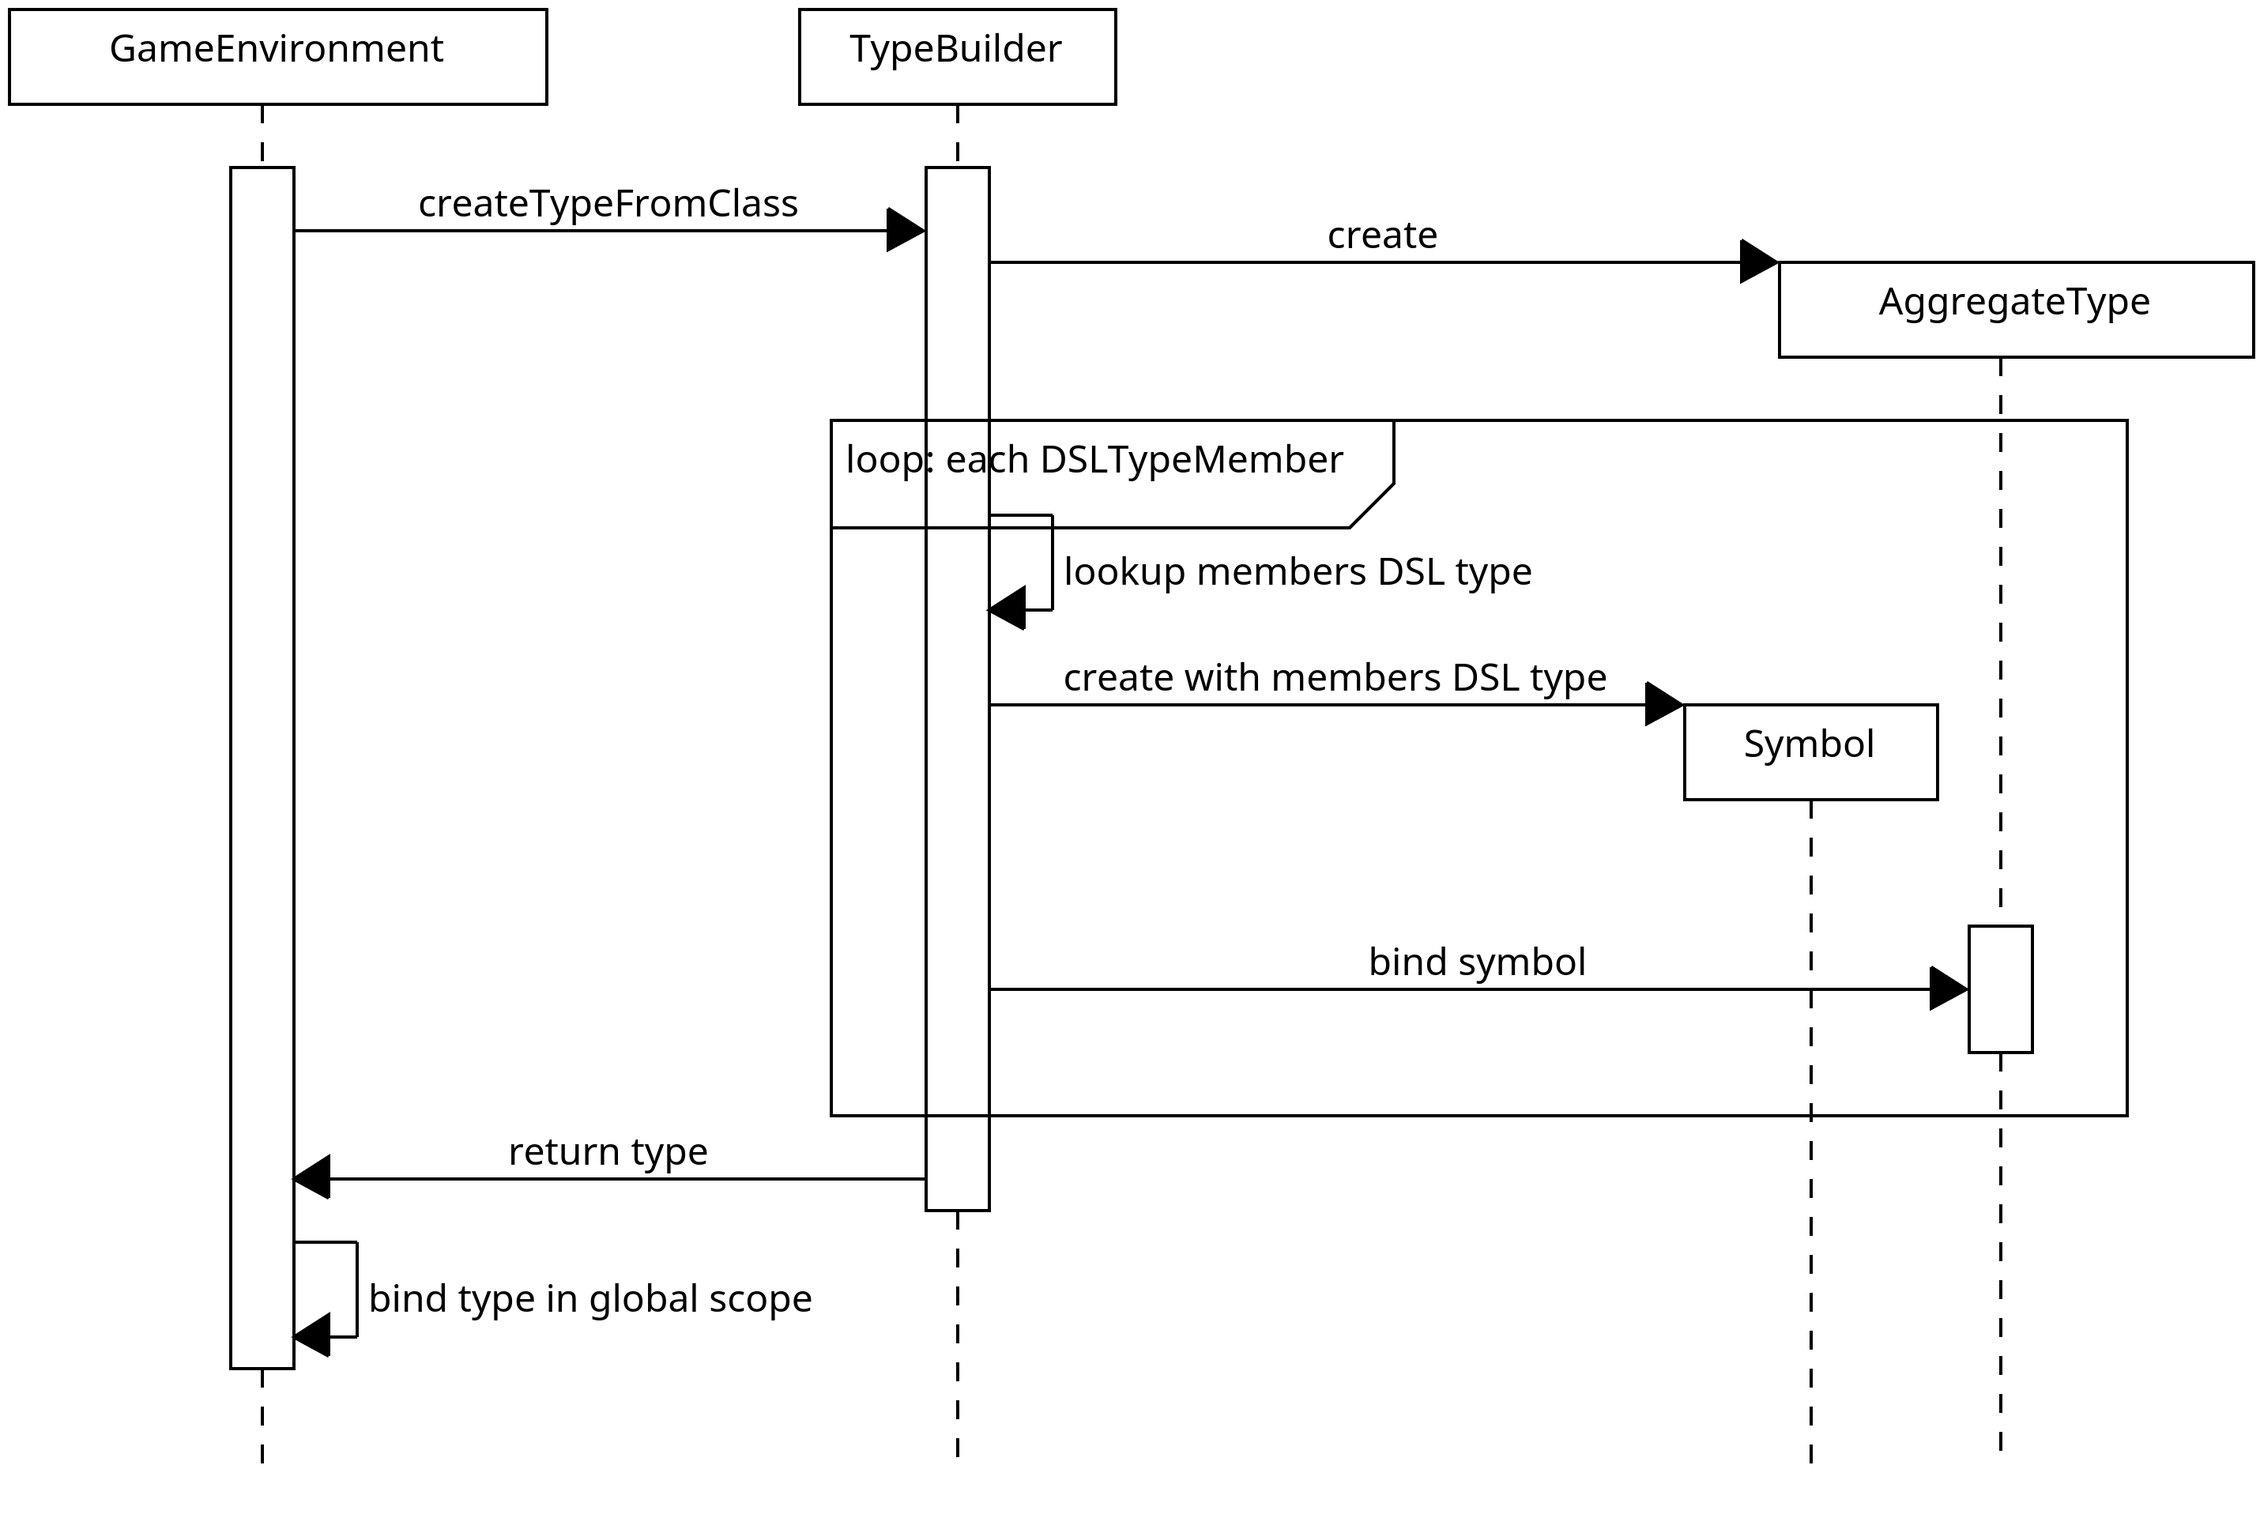
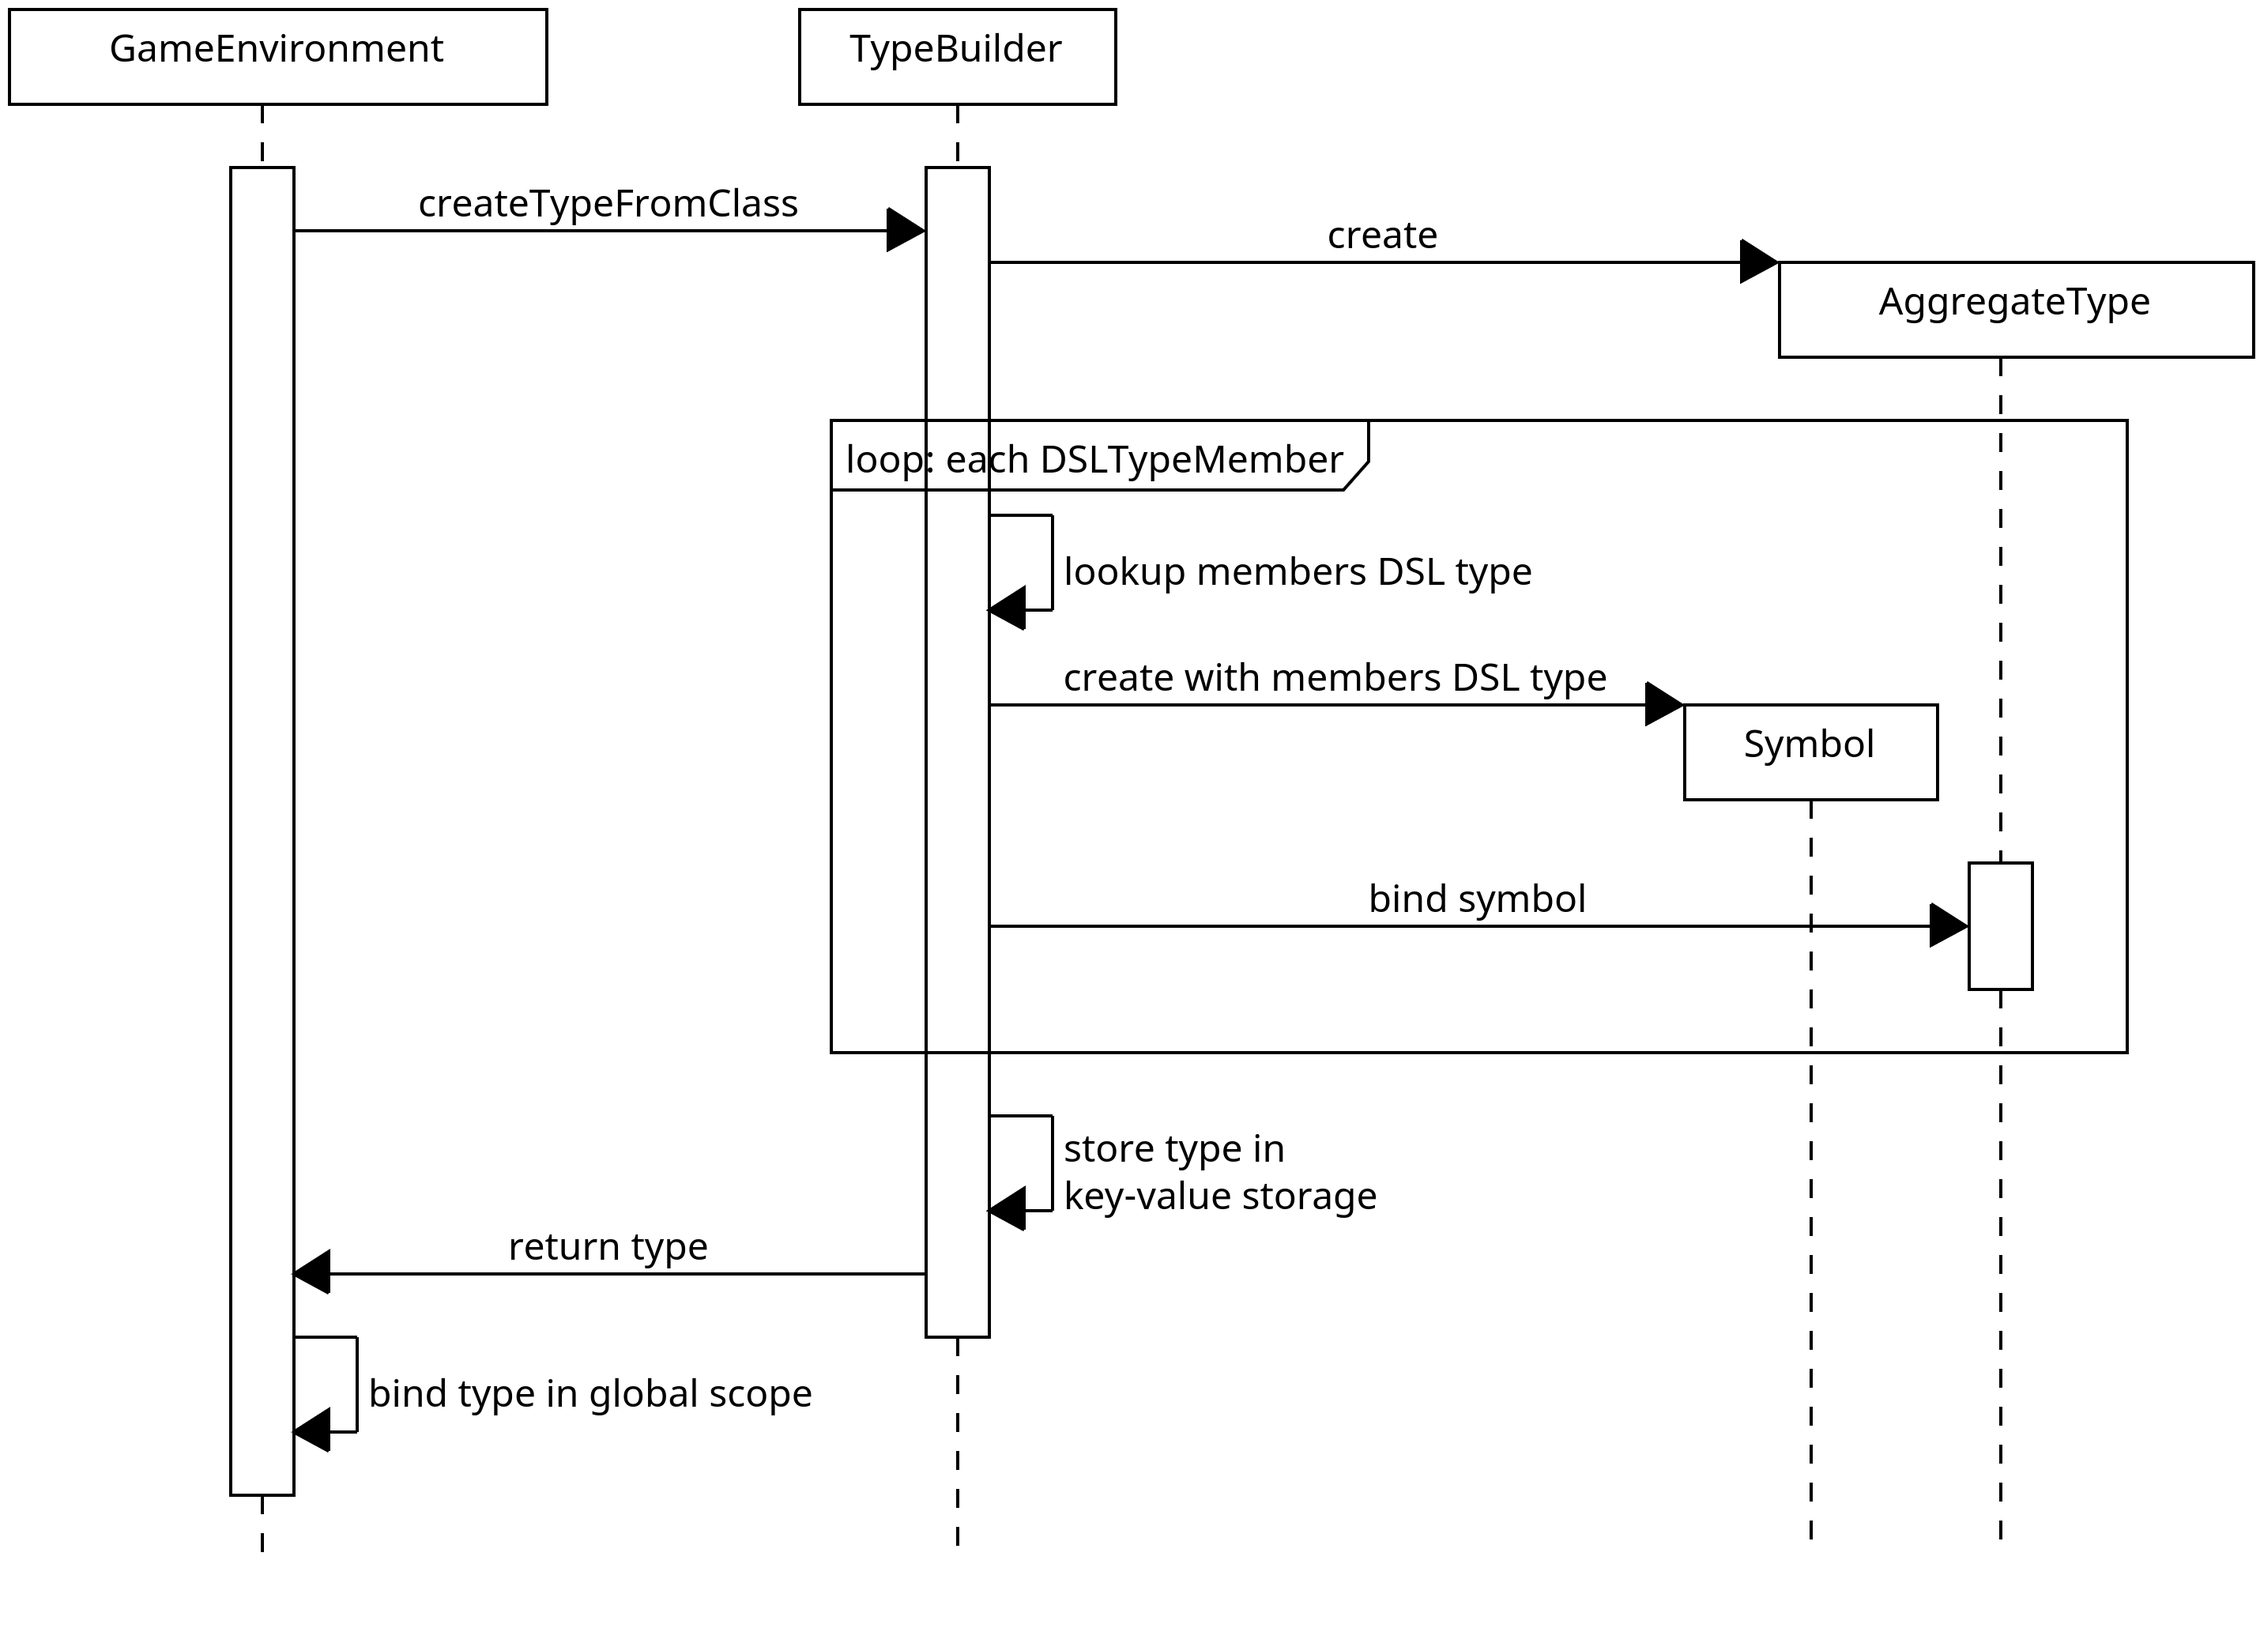
[DSL] Diagramme für Typadaptierung (#287)
* Add sequence for simple type adapting

* Modify typebuilding sequence diagram for consistency with typeadapting diagram

* Reference simple type adapting sequence diagram in documentation

* Fix layer order in typebuilding image

* Add sequence diagram for complex type adapting

* Reference diagram for complex type adapting

* Fix error in sequence diagram for typebuilding

* Update doc/dsl/typebuilding.md

Remove leading './'

* Update doc/dsl/typebuilding.md

Add extra newline after headline

* Update doc/dsl/typebuilding.md

Fix typo

* Update doc/dsl/typebuilding.md

Remove leading "./"

---------

diff --git a/doc/dsl/typebuilding.md b/doc/dsl/typebuilding.md
@@ -260,11 +260,26 @@ game_object my_obj {
 
 # Implementierung
 
-Der grobe Ablauf des Typebuildings, welches vom GameEnvironment für alle standardmäßig verfügbaren Datentypen ausgeführt wird, ist im folgenden Sequenzdiagramm abgebildet.
+### Typebuilding
 
-![typebuilding](./img/typebuilding.png)
+Der grobe Ablauf des Typebuildings, welches vom GameEnvironment für alle
+standardmäßig verfügbaren Datentypen ausgeführt wird, ist im folgenden
+Sequenzdiagramm abgebildet:
 
+![UML: Ablauf Typebuilding](./img/typebuilding.png)
 
-TODO:
-- Sequenzdiagramm für Typadaptierung
+### Typadaptierung
 
+Der Ablauf der Typadaptierung unterscheidet sich abhängig von der Menge der benötigten Parameter
+(analog zu der Beschreibung in [Typadaptierung](#typadaptierung)).
+
+Der Ablauf für den Fall, dass nur ein Parameter zur Instanziierung nötig ist,
+kann dem folgenden Sequenzdiagramm entnommen werden:
+
+![UML: Ablauf einfache Typadaptierung](img/typeadapting.png)
+
+Für den Fall, dass mehr als ein Parameter zur Instanziierung nötig ist, ähnelt
+die Erstellung des `AggregateTypeAdapter` dem normalen [Typebuilding](#typebuilding),
+wie im folgenden Sequenzdiagramm zu erkennen:
+
+![UML: Ablauf komplexe Typadaptierung](img/typeadapting_complex.png)
